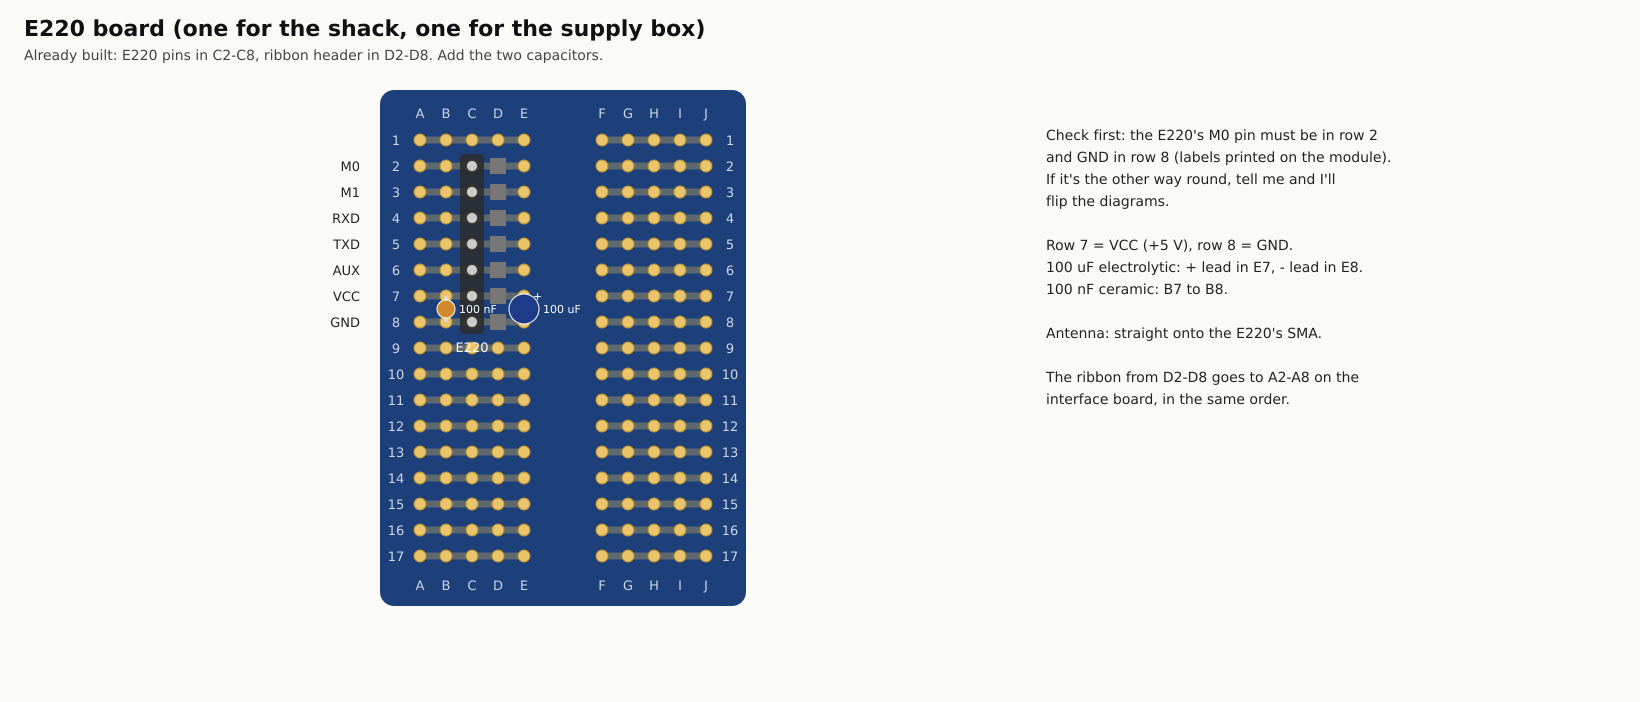
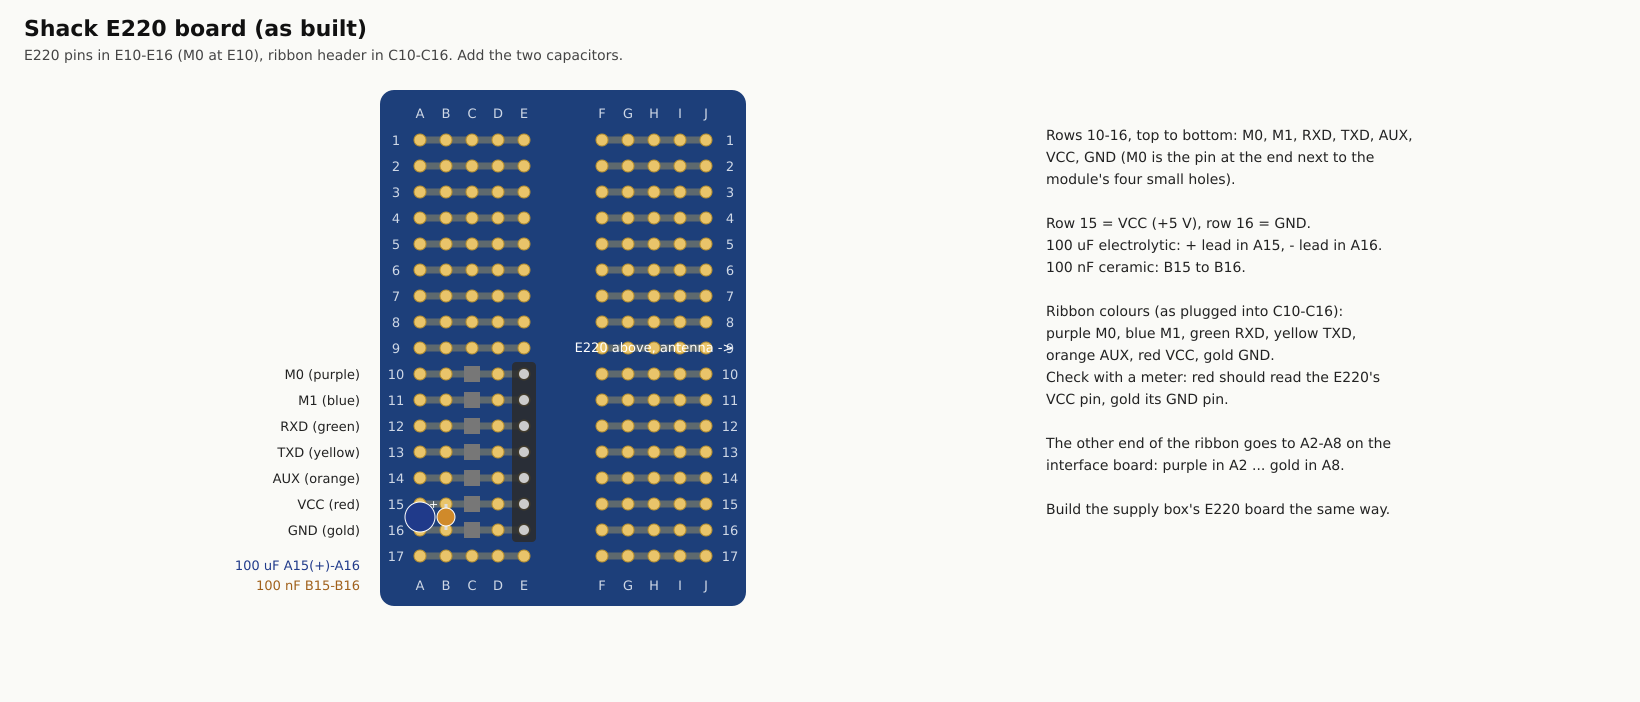
docs: prototype E220 board as built (E10-E16, header C10-C16), ribbon colours
Claude-Session: https://claude.ai/code/session_01UT9WmjDP4GTw55uUrUFHCd

diff --git a/docs/prototype/make_proto.py b/docs/prototype/make_proto.py
@@ -141,30 +141,43 @@ class Drawing:
 E220 = ["M0", "M1", "RXD", "TXD", "AUX", "VCC", "GND"]          # rows 2..8, as soldered
 
 
+RIBBON = ["purple", "blue", "green", "yellow", "orange", "red", "gold"]   # M0 .. GND
+
+
 def e220_board():
-    d = Drawing("E220 board (one for the shack, one for the supply box)",
-                "Already built: E220 pins in C2-C8, ribbon header in D2-D8. Add the two capacitors.")
+    d = Drawing("Shack E220 board (as built)",
+                "E220 pins in E10-E16 (M0 at E10), ribbon header in C10-C16. Add the two capacitors.")
     d.board()
-    d.module([f"C{r}" for r in range(2, 9)], "E220", "#2b2b2b")
+    d.module([f"E{r}" for r in range(10, 17)], "", "#2b2b2b")
+    x, y = d.xy("H9")
+    d.el.append(f'<text x="{x}" y="{y + 4}" class="sm" fill="#fff" text-anchor="middle">E220 above, antenna -&gt;</text>')
     for i, n in enumerate(E220):
-        d.pin(f"D{i + 2}", "", "#777")
-        x, y = d.xy(f"A{i + 2}")
-        d.el.append(f'<text x="{x - 60}" y="{y + 5}" class="sm" fill="#222" text-anchor="end">{n}</text>')
-    d.cap("E7", "E8", "100 uF", polar=True)
-    d.cap("B7", "B8", "100 nF")
-    d.note(["Check first: the E220's M0 pin must be in row 2",
-            "and GND in row 8 (labels printed on the module).",
-            "If it's the other way round, tell me and I'll",
-            "flip the diagrams.",
+        d.pin(f"C{i + 10}", "", "#777")
+        x, y = d.xy(f"A{i + 10}")
+        d.el.append(f'<text x="{x - 60}" y="{y + 5}" class="sm" fill="#222" text-anchor="end">{n}  ({RIBBON[i]})</text>')
+    d.cap("A15", "A16", "", polar=True)
+    d.cap("B15", "B16", "")
+    x, y = d.xy("A17")
+    d.el.append(f'<text x="{x - 60}" y="{y + 14}" class="sm" fill="#203a8a" text-anchor="end">100 uF A15(+)-A16</text>')
+    d.el.append(f'<text x="{x - 60}" y="{y + 34}" class="sm" fill="#a0601a" text-anchor="end">100 nF B15-B16</text>')
+    d.note(["Rows 10-16, top to bottom: M0, M1, RXD, TXD, AUX,",
+            "VCC, GND (M0 is the pin at the end next to the",
+            "module's four small holes).",
             "",
-            "Row 7 = VCC (+5 V), row 8 = GND.",
-            "100 uF electrolytic: + lead in E7, - lead in E8.",
-            "100 nF ceramic: B7 to B8.",
+            "Row 15 = VCC (+5 V), row 16 = GND.",
+            "100 uF electrolytic: + lead in A15, - lead in A16.",
+            "100 nF ceramic: B15 to B16.",
             "",
-            "Antenna: straight onto the E220's SMA.",
+            "Ribbon colours (as plugged into C10-C16):",
+            "purple M0, blue M1, green RXD, yellow TXD,",
+            "orange AUX, red VCC, gold GND.",
+            "Check with a meter: red should read the E220's",
+            "VCC pin, gold its GND pin.",
             "",
-            "The ribbon from D2-D8 goes to A2-A8 on the",
-            "interface board, in the same order."])
+            "The other end of the ribbon goes to A2-A8 on the",
+            "interface board: purple in A2 ... gold in A8.",
+            "",
+            "Build the supply box's E220 board the same way."])
     return d
 
 
@@ -172,7 +185,7 @@ def ribbon_and_dividers(d):
     for i, n in enumerate(E220):
         d.pin(f"A{i + 2}", "", "#666")
         x, y = d.xy(f"A{i + 2}")
-        d.el.append(f'<text x="{x - 60}" y="{y + 5}" class="sm" fill="#222" text-anchor="end">ribbon {n}</text>')
+        d.el.append(f'<text x="{x - 60}" y="{y + 5}" class="sm" fill="#222" text-anchor="end">ribbon {n} ({RIBBON[i]})</text>')
     d.resistor("B2", "B8", "2k")
     d.resistor("C3", "C8", "2k")
     d.resistor("D4", "D8", "2k")
@@ -185,8 +198,8 @@ def ribbon_and_dividers(d):
     d.wire("E6", "Nano D6   (E220 AUX)", COL["nano"], lane=-0.5)
 
 
-DIV_NOTE = ["Ribbon pins into A2-A8 in the same order as on the",
-            "E220 board (M0 in A2 ... GND in A8).",
+DIV_NOTE = ["Ribbon pins into A2-A8: purple (M0) in A2, blue A3,",
+            "green A4, yellow A5, orange A6, red (VCC) A7, gold (GND) A8.",
             "",
             "Dividers, 5 V Nano -> 3.3 V E220 (M0, M1, RXD):",
             "  1k standing, across the gap: E2-F2, E3-F3, E4-F4",

diff --git a/docs/prototype/README.md b/docs/prototype/README.md
@@ -11,7 +11,7 @@ A bench prototype of the shack (BASE) and supply-box (PSU) nodes, to run while t
 | Shack | E220 board → ribbon → shack interface board | Screw-terminal carrier, USB from the shack PC |
 | Supply box | E220 board → ribbon → PSU interface board, plus the PSU power board | Screw-terminal carrier, powered from its 5V terminal |
 
-Each E220 board is the one you've already built: E220 pins in C2–C8, ribbon header in D2–D8. The ribbon lands in A2–A8 of the interface board, in the same order.
+The shack E220 board as built: E220 pins in E10–E16 (M0 in E10 … GND in E16; M0 is the pin next to the module's four small holes), ribbon header in C10–C16. Build the supply box's E220 board the same way. The ribbon colours run purple M0, blue M1, green RXD, yellow TXD, orange AUX, red VCC, gold GND. The other end lands in A2–A8 of the interface board in that order: purple in A2 through gold in A8.
 
 **Why there's an interface board:** the E220 uses 3.3 V logic, so the three Nano outputs that drive it (M0, M1, RXD) each need a 1k/2k divider. The 1k has to sit in series between the Nano pin and the E220 pin. On the E220 board each header pin shares a row with its E220 pin, so there's no place for it there.
 
@@ -71,8 +71,8 @@ Each E220 board is the one you've already built: E220 pins in C2–C8, ribbon he
 |---|---|---|
 | 6 (3 per node) | 1 kΩ | Standing, E2–F2, E3–F3, E4–F4 |
 | 6 (3 per node) | 2 kΩ | Lying flat, B2–B8, C3–C8, D4–D8 |
-| 2 (1 per E220 board) | 100 µF electrolytic | E7 (+) to E8 |
-| 2 (1 per E220 board) | 100 nF ceramic | B7 to B8 |
+| 2 (1 per E220 board) | 100 µF electrolytic | A15 (+) to A16 |
+| 2 (1 per E220 board) | 100 nF ceramic | B15 to B16 |
 | 1 | 4.7 kΩ | Standing, I6–I7 (PSU interface) |
 | 1 | Polyfuse, 0.5 A hold | Standing, C11–C13 (PSU power) |
 | 1 | Fixed 5 V buck module | Beside the power board, short wires to its corner pads |
@@ -81,7 +81,7 @@ Each E220 board is the one you've already built: E220 pins in C2–C8, ribbon he
 
 ## Bring-up order
 
-1. **E220 orientation.** Check that M0 is in row 2 and GND in row 8 on the E220 board. If it's reversed, the diagrams need flipping. Ask before wiring.
+1. **E220 board.** Before connecting anything, check with a meter that the red ribbon wire reaches the E220's VCC pin and the gold one its GND pin.
 2. **Shack node.**
    - Wire it up and plug the Nano into the shack PC.
    - Open a serial monitor at 115200 first. It should show `V:remtlm … base` and then `C:ok ch=77 freq_khz=927125`. `C:ok` means the Nano read the E220's configuration through the ribbon and dividers, so that wiring is right. `C:ERR` means check the ribbon order, the dividers, M0/M1, and power on row 7/8.
